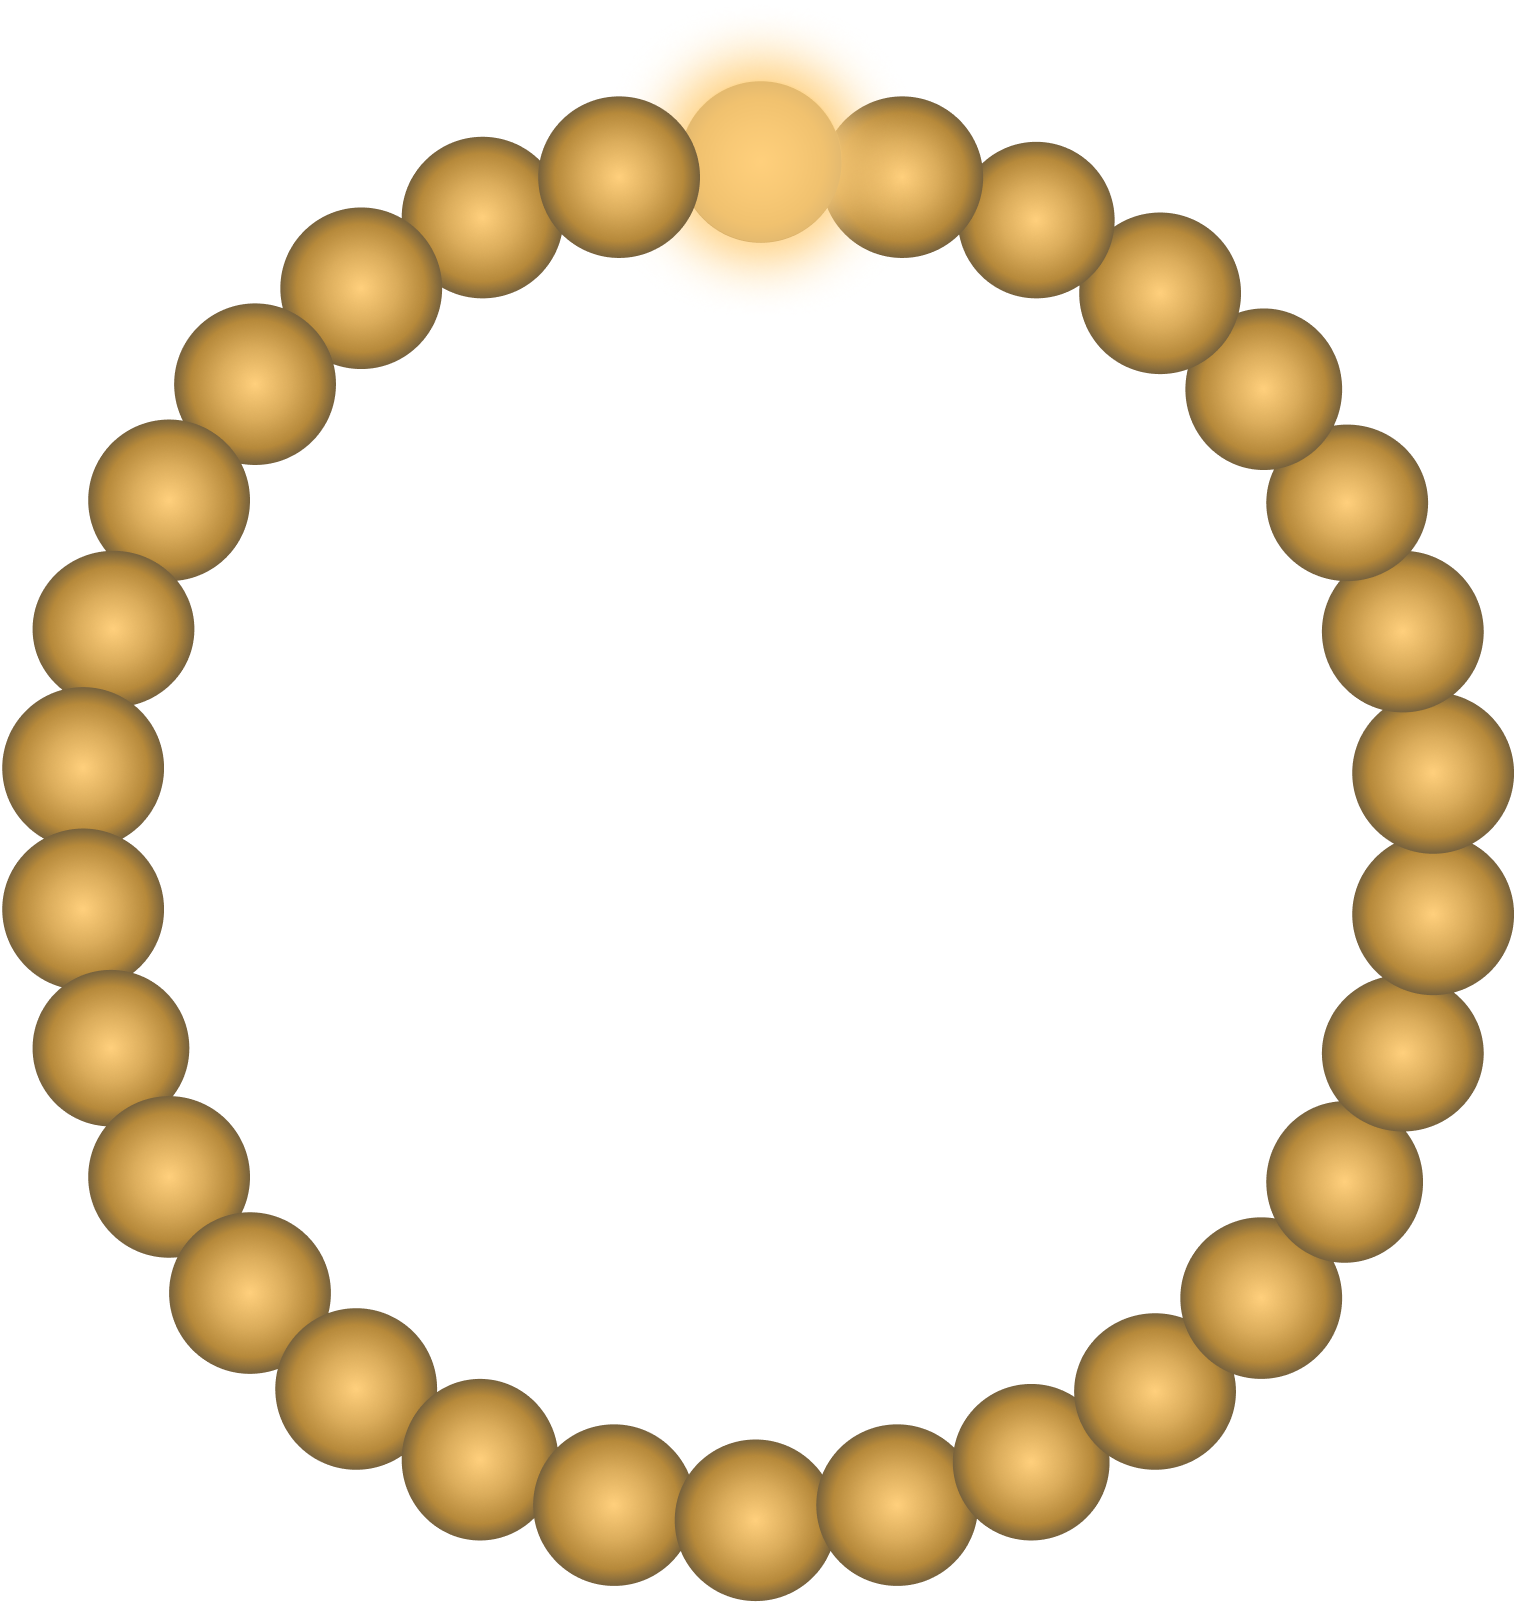
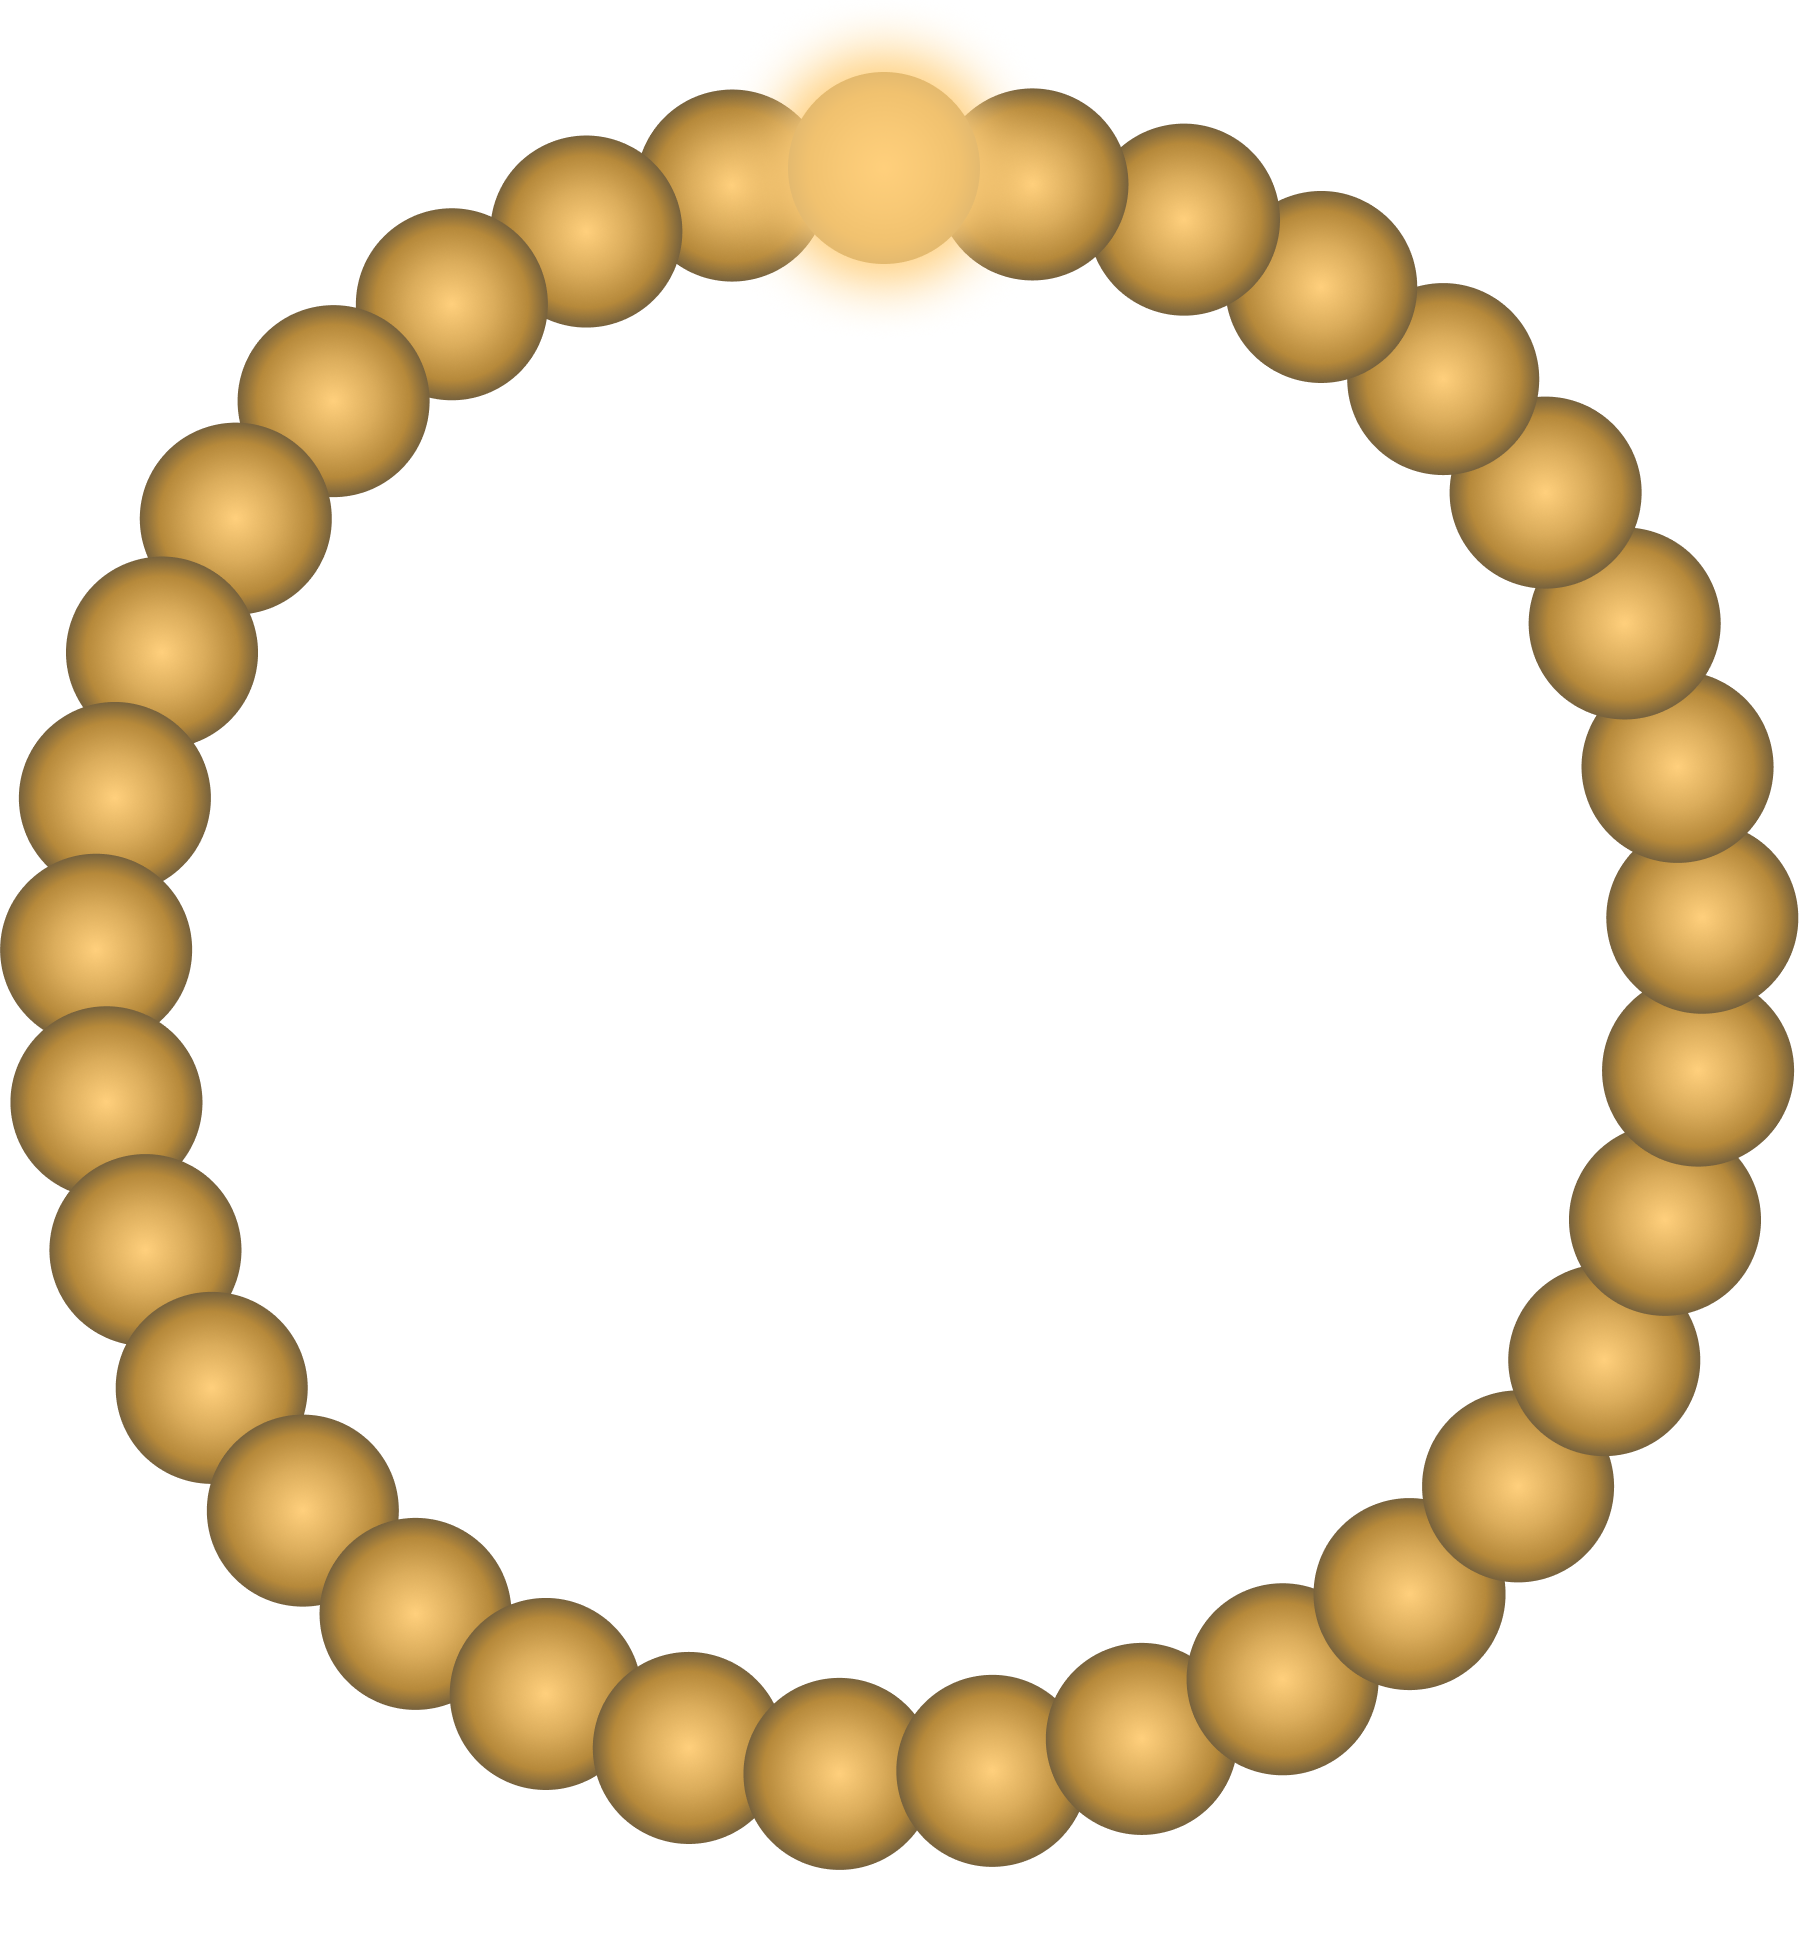
fix: perfectly align and space 33 beads in Figma to remove rotation wobble and drift
This commit replaces the static image title with a styled Text widget in the Sebha tab and refines the layout and feedback of the Sebha body.

- Replaced `sebha_title.png` with a localized `Text` widget using the 'janna' font.
- Reordered the `Stack` elements in `SebhaBody` to ensure the interactive sebha body image is layered correctly.
- Adjusted the width and positioning of the `sebha_head.png` asset.
- Changed the haptic feedback from `selectionClick` to `vibrate` when clicking the Sebha.
- Updated `sebha_body.png` and `sebha_head.png` assets.

Changed region(s): [[0.0, 0.0, 1.0, 0.9975], [0.8991, 0.4364, 0.9301, 0.4676]]

diff --git a/lib/ui/home/tabs/sebha_tab/sebha_body.dart b/lib/ui/home/tabs/sebha_tab/sebha_body.dart
@@ -26,26 +26,12 @@ class _SebhaBodyState extends State<SebhaBody> {
   @override
   Widget build(BuildContext context) {
     double width = MediaQuery.of(context).size.width;
+    double height = MediaQuery.of(context).size.height;
     return Stack(
       alignment: Alignment.topCenter,
       children: [
         Positioned(
-          top: 23,
-          child: Image.asset('assets/images/sebha_head.png', width: 120),
-        ),
-        Padding(
-          padding: EdgeInsets.only(top: 68),
-          child: AnimatedRotation(
-            turns: turns,
-            duration: Duration(milliseconds: 200),
-            child: GestureDetector(
-              onTap: onSebhaClicked,
-              child: Image.asset(
-                'assets/images/sebha_body.png',
-                width: width * 0.9,
-              ),
-            ),
-          ),
+          child: Image.asset('assets/images/sebha_head.png', width: 145),
         ),
         Column(
           spacing: 16,
@@ -71,6 +57,20 @@ class _SebhaBodyState extends State<SebhaBody> {
             ),
           ],
         ),
+        Padding(
+          padding: EdgeInsets.only(top: 68),
+          child: AnimatedRotation(
+            turns: turns,
+            duration: Duration(milliseconds: 200),
+            child: GestureDetector(
+              onTap: onSebhaClicked,
+              child: Image.asset(
+                'assets/images/sebha_body.png',
+                width: width * 0.9,
+              ),
+            ),
+          ),
+        ),
       ],
     );
   }
@@ -90,7 +90,7 @@ class _SebhaBodyState extends State<SebhaBody> {
         await audioPlayer.stop();
         audioPlayer.play(AssetSource('sounds/success.mp3'));
       } else {
-        HapticFeedback.selectionClick();
+        HapticFeedback.vibrate();
         await audioPlayer.stop();
         audioPlayer.play(AssetSource('sounds/click.mp3'));
       }

diff --git a/lib/ui/home/tabs/sebha_tab/sebha_tab.dart b/lib/ui/home/tabs/sebha_tab/sebha_tab.dart
@@ -41,7 +41,15 @@ class _SebhaTabState extends State<SebhaTab> {
               children: [
                 Image.asset('assets/images/img_header.png', width: width * 0.7),
                 SizedBox(height: 36),
-                Image.asset('assets/images/sebha_title.png'),
+                Text(
+                  'سَبِّحِ اسْمَ رَبِّكَ الأعلى',
+                  style: TextStyle(
+                    fontFamily: 'janna',
+                    fontSize: 36,
+                    color: AppColors.white,
+                    fontWeight: FontWeight.bold,
+                  ),
+                ),
                 SizedBox(height: 16),
                 SebhaBody(),
               ],
